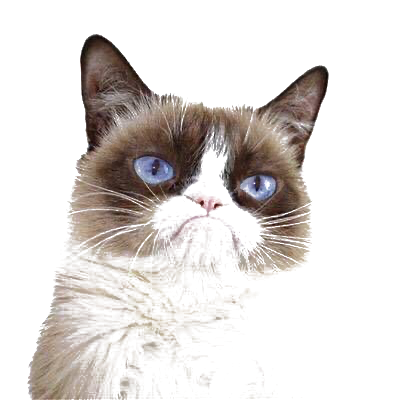
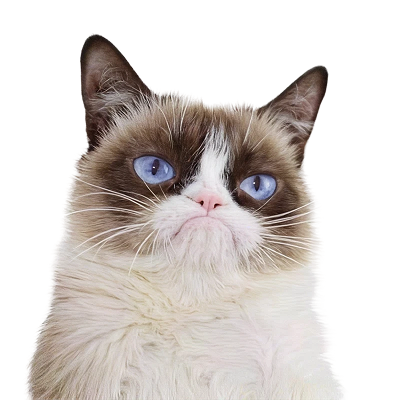
Publish clean cat hero

diff --git a/styles.css b/styles.css
@@ -395,20 +395,7 @@ body.quake main, body.quake #bg, body.quake #hud { animation: quake .5s linear b
 .splash-ui .hot-btn { background: var(--yellow); min-width: 330px; }
 
 /* Two-section chaos edition */
-#head h1 { font-size: clamp(150px, 27vw, 390px); line-height: .67; }
-.hero-stamps { position: absolute; right: 5%; top: 12%; width: 34%; height: 58%; pointer-events: none; }
-.hero-stamps b {
-  position: absolute;
-  display: block;
-  padding: 8px 13px;
-  border: 5px solid var(--ink);
-  background: var(--yellow);
-  box-shadow: 7px 7px 0 var(--green);
-  font: 900 clamp(28px, 5vw, 70px)/1 var(--disp);
-}
-.hero-stamps b:nth-child(1) { right: 4%; top: 2%; rotate: 10deg; }
-.hero-stamps b:nth-child(2) { left: 0; top: 39%; rotate: -13deg; background: var(--white); }
-.hero-stamps b:nth-child(3) { right: 0; bottom: 0; rotate: 7deg; background: var(--green); }
+#head h1 { max-width: 6ch; font-size: clamp(92px, 14vw, 210px); line-height: .7; }
 .hero-cat-pack { position: absolute; right: -3%; bottom: 0; z-index: 1; width: 69%; height: 68%; pointer-events: none; }
 .hero-cat-pack img { position: absolute; bottom: -5%; width: 50%; filter: drop-shadow(8px 8px 0 var(--green)); }
 .hero-cat-pack img:nth-child(1) { left: 0; rotate: -8deg; }
@@ -559,9 +546,7 @@ body.rage-mode .chaos-card { box-shadow: 13px 13px 0 var(--ink); }
   .splash-card > .splash-mega-cat { right: -20vw; top: 11%; width: 96vw; height: 78%; opacity: .96; }
   .splash-card h1 { left: 4vw; bottom: 8%; z-index: 8; max-width: 5ch; font-size: clamp(52px, 17vw, 82px); }
   .splash-ui .hot-btn { min-width: 0; width: 100%; }
-  #head h1 { font-size: clamp(150px, 51vw, 210px); }
-  .hero-stamps { right: -3%; top: 21%; width: 48%; height: 50%; }
-  .hero-stamps b { border-width: 3px; padding: 5px 8px; font-size: clamp(22px, 8vw, 38px); box-shadow: 4px 4px 0 var(--green); }
+  #head h1 { font-size: clamp(72px, 22vw, 110px); }
   .hero-cat-pack { right: -12%; bottom: 0; width: 92%; height: 45%; }
   .hero-cat-pack img { width: 50%; }
   .hero-cat-pack img:nth-child(2) { left: 25%; width: 55%; }

diff --git a/index.html b/index.html
@@ -40,9 +40,8 @@
   <main>
     <section id="head" class="panel" data-screen-label="THE FACE">
       <p class="kicker">GRUMPY CAT · EMERGENCY BROADCAST</p>
-      <h1 class="stretch">NO.</h1>
+      <h1 class="stretch">GRUMPY<br>CAT</h1>
       <p class="lede">Grumpy Cat reviewed the entire internet and brought three identical expert witnesses. Every witness said no. Your appeal has also been denied.</p>
-      <div class="hero-stamps" aria-hidden="true"><b>0/10</b><b>AWFUL</b><b>GO AWAY</b></div>
       <div class="hero-cat-pack" aria-hidden="true">
         <img src="assets/img/grumpy-cat-cutout.png" alt="">
         <img src="assets/img/grumpy-cat-cutout.png" alt="">
